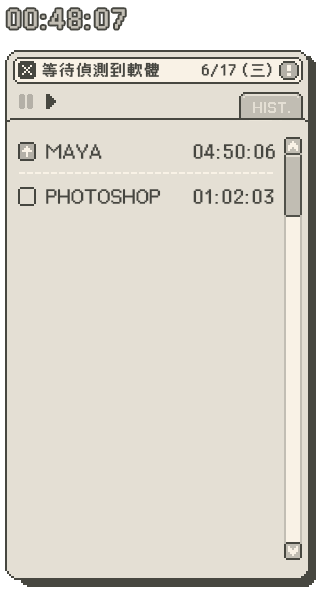
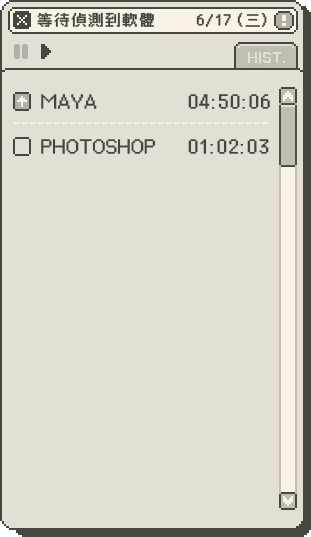
預覽圖去掉時間並修正比例，補回 header／footer 上下留白

Changed region(s): [[0.0, 0.0, 1.0, 1.0]]

diff --git a/index.html b/index.html
@@ -49,7 +49,7 @@
   }
 
   /* ── Hero ── */
-  header { padding: 56px 0 32px; }
+  header.wrap { padding-top: 56px; padding-bottom: 32px; }
   .hero { display: grid; grid-template-columns: 1fr auto; gap: 40px; align-items: center; }
   .clock {
     font-family: var(--pixel);
@@ -64,9 +64,10 @@
   h1 { font-size: clamp(30px, 5vw, 42px); line-height: 1.25; margin: 0 0 12px; letter-spacing: 1px; }
   .lead { font-size: 18px; color: var(--ink-soft); margin: 0 0 28px; max-width: 30em; }
   .preview {
-    width: 240px;
+    width: 311px;
+    max-width: 100%;
+    height: auto;
     image-rendering: pixelated;
-    filter: drop-shadow(0 0 0 transparent);
   }
 
   /* ── 主下載按鈕 ── */
@@ -149,14 +150,14 @@
   details p, details ul { margin: 10px 0 0; color: var(--ink-soft); }
   details ul { padding-left: 1.2em; }
 
-  footer { padding: 24px 0 48px; color: var(--ink-soft); font-size: 14px; text-align: center; }
+  footer.wrap { padding-top: 24px; padding-bottom: 48px; color: var(--ink-soft); font-size: 14px; text-align: center; }
   footer .pix { font: 10px var(--pixel); letter-spacing: 1px; }
 
   @media (max-width: 760px) {
-    header { padding-top: 36px; }
+    header.wrap { padding-top: 36px; }
     .hero { grid-template-columns: 1fr; }
     .hero figure { order: -1; justify-self: center; }
-    .preview { width: 180px; }
+    .preview { width: 220px; }
     .features, .downloads { grid-template-columns: 1fr; }
     .panel { padding: 20px 18px; }
     ol.steps > li { padding-left: 42px; }
@@ -180,7 +181,7 @@
       </div>
     </div>
     <figure style="margin:0">
-      <img class="preview" src="assets/timer-preview.png" width="320" height="590" alt="TrueTick 計時器介面：上方是今日總時數，下方列出各軟體的使用時間">
+      <img class="preview" src="assets/timer-preview.png" width="311" height="537" alt="TrueTick 計時器介面：列出各軟體的使用時間">
     </figure>
   </div>
 </header>
